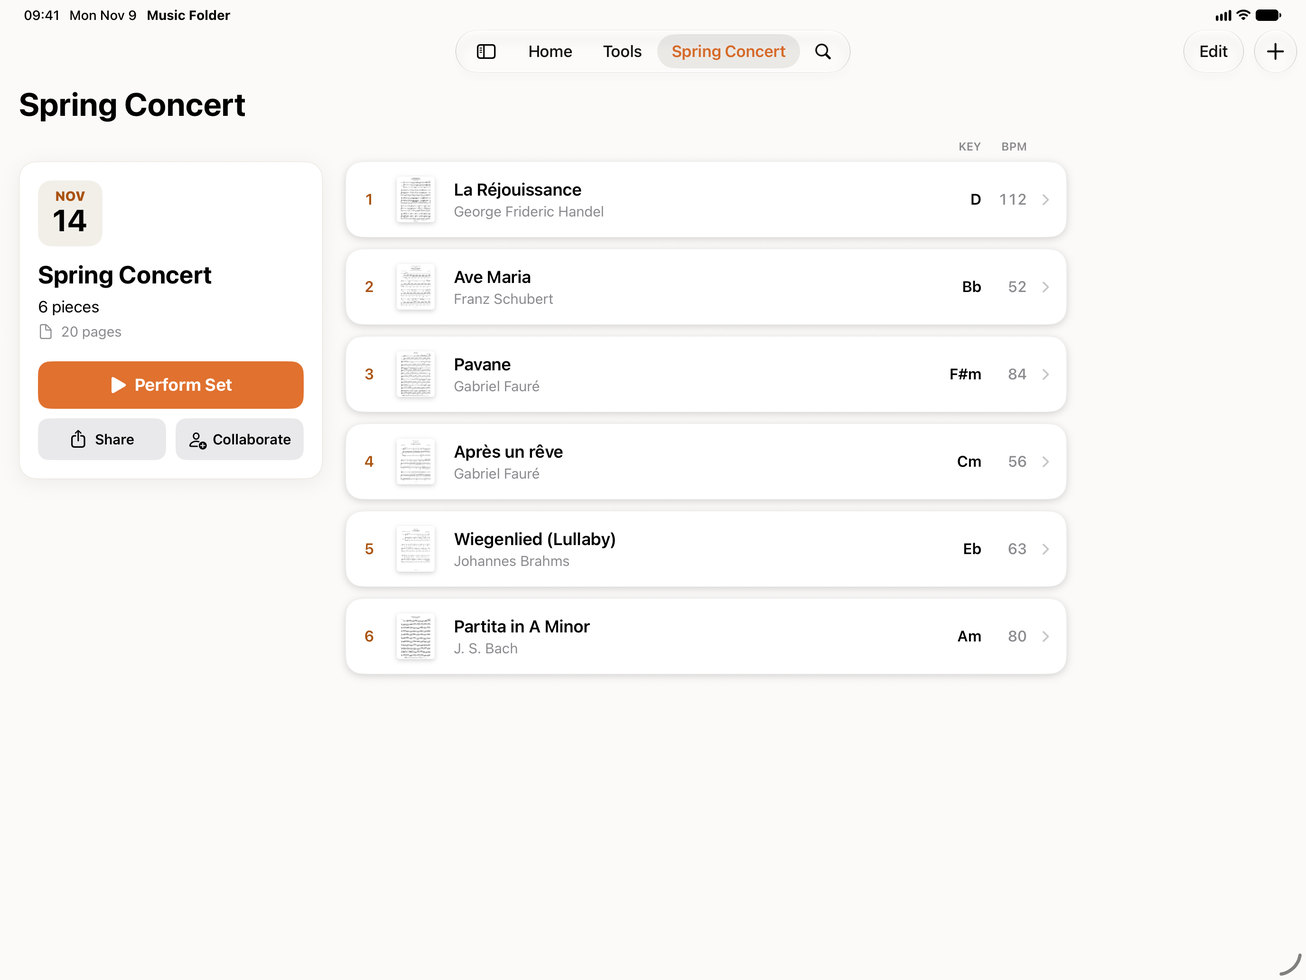
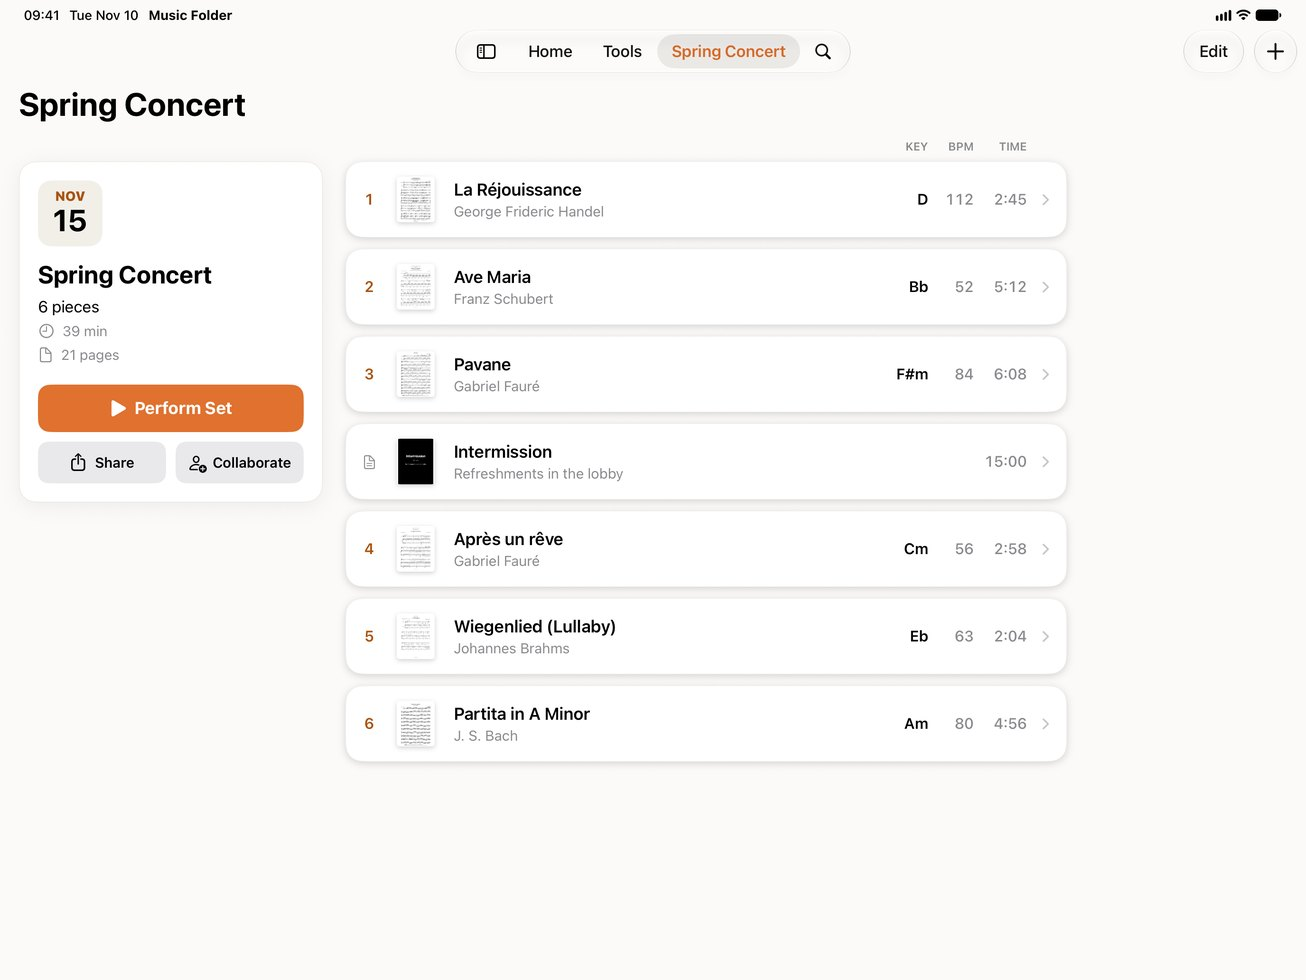
Spring Concert: piece lengths and a black 15-minute Intermission page
Recaptured on MF iPad Pro 13 27.2 from the same seed, now with each piece's
length (TIME column, 39 min set total) and a black Intermission set-list page
with a 15:00 timer after Pavane. Window resize handle removed. Alt text follows
the new screen; cache-busted (v4) on Home and Orchestras & Choirs.

diff --git a/index.html b/index.html
@@ -246,7 +246,7 @@
         <article class="step" data-step="1">
           <h3>Your set, in order.</h3>
           <p>Build a set for every gig or service, then play straight through it, turning pages with a Bluetooth pedal.</p>
-          <div class="step-visual"><div class="device tablet landscape"><div class="screen shot"><img src="assets/setlist-concert-ipad.jpg?v=3" alt="A set list called Spring Concert in Music Folder on iPad: six pieces in performance order, each with composer, key and tempo, beside Perform Set, Share and Collaborate" width="1306" height="980" loading="lazy"></div></div></div>
+          <div class="step-visual"><div class="device tablet landscape"><div class="screen shot"><img src="assets/setlist-concert-ipad.jpg?v=4" alt="A set list called Spring Concert in Music Folder on iPad: six pieces in performance order, each with composer, key, tempo and length, a black Intermission page with a 15-minute timer after the third piece, and the set’s total time beside Perform Set, Share and Collaborate" width="1306" height="980" loading="lazy"></div></div></div>
         </article>
         <article class="step" data-step="2">
           <h3>Mark it up like paper.</h3>
@@ -268,7 +268,7 @@
       <div class="story-stage" aria-hidden="true">
         <div class="stage-inner">
           <div class="frame is-active" data-step="0"><div class="device phone"><div class="screen shot"><img src="assets/library-screen.jpg?v=3" alt="" width="700" height="1522" loading="lazy"></div></div></div>
-          <div class="frame" data-step="1"><div class="device tablet landscape"><div class="screen shot"><img src="assets/setlist-concert-ipad.jpg?v=3" alt="" width="1306" height="980" loading="lazy"></div></div></div>
+          <div class="frame" data-step="1"><div class="device tablet landscape"><div class="screen shot"><img src="assets/setlist-concert-ipad.jpg?v=4" alt="" width="1306" height="980" loading="lazy"></div></div></div>
           <div class="frame" data-step="2"><div class="device tablet s13"><div class="screen shot"><img src="assets/annotate-ipad.jpg?v=3" alt="" width="900" height="1200" loading="lazy"></div><svg class="pencil" viewBox="0 0 380 22" aria-hidden="true" focusable="false"><defs><linearGradient id="pcBody" x1="0" y1="0" x2="0" y2="1"><stop offset="0" stop-color="#FFFFFF"/><stop offset=".38" stop-color="#F7F7F5"/><stop offset=".8" stop-color="#DEDEDA"/><stop offset="1" stop-color="#C9C9C5"/></linearGradient><linearGradient id="pcTip" x1="0" y1="0" x2="0" y2="1"><stop offset="0" stop-color="#FAFAF8"/><stop offset="1" stop-color="#CFCFCB"/></linearGradient></defs><path d="M34 1H369a10 10 0 0 1 0 20H34Z" fill="url(#pcBody)"/><path d="M34 4.2H369" stroke="#fff" stroke-width="1.6" opacity=".9"/><path d="M34 15.6H372" stroke="#000" stroke-opacity=".05" stroke-width="1"/><path d="M34 1L7 9.2v3.6L34 21Z" fill="url(#pcTip)"/><path d="M8.2 8.8L1 10.4a.7.7 0 0 0 0 1.2L8.2 13.2Z" fill="#8E8E8A"/><path d="M34 1v20" stroke="#000" stroke-opacity=".06"/></svg></div></div>
           <div class="frame" data-step="3"><div class="device phone"><div class="screen shot"><img src="assets/planning-center-iphone.jpg?v=2" alt="" width="700" height="1522" loading="lazy"></div></div></div>
           <div class="frame" data-step="4"><div class="device tablet fit"><div class="screen shot"><img src="/assets/collab-ipad.jpg?v=2" alt="" width="900" height="1306" loading="lazy"></div></div></div>

diff --git a/for/orchestras-choirs.html b/for/orchestras-choirs.html
@@ -219,7 +219,7 @@
   <div class="wrap rows">
     <div class="row-feature">
       <div class="rf-text"><h2 class="heading-sm">The concert program, <em>shared.</em></h2><p>Build the program once as a set list and share it. Change the order or add an encore, and every musician's copy updates before the downbeat.</p><ul class="rf-points"><li><svg viewBox="0 0 16 16" fill="none" stroke="currentColor" stroke-width="1.9" stroke-linecap="round" stroke-linejoin="round" aria-hidden="true"><path d="M3 8.5l3 3 7-7"/></svg><span>Whole pieces or single movements, in performance order</span></li><li><svg viewBox="0 0 16 16" fill="none" stroke="currentColor" stroke-width="1.9" stroke-linecap="round" stroke-linejoin="round" aria-hidden="true"><path d="M3 8.5l3 3 7-7"/></svg><span>Section leaders can edit, players view only</span></li><li><svg viewBox="0 0 16 16" fill="none" stroke="currentColor" stroke-width="1.9" stroke-linecap="round" stroke-linejoin="round" aria-hidden="true"><path d="M3 8.5l3 3 7-7"/></svg><span>Turn pages with a Bluetooth pedal, straight through the program</span></li></ul></div>
-      <div class="rf-visual"><div class="device tablet landscape fit"><div class="screen shot"><img src="/assets/setlist-concert-ipad.jpg?v=3" alt="A set list called Spring Concert in Music Folder on iPad: six pieces in performance order, each with composer, key and tempo, beside Perform Set, Share and Collaborate" width="1306" height="980" loading="lazy"></div></div></div>
+      <div class="rf-visual"><div class="device tablet landscape fit"><div class="screen shot"><img src="/assets/setlist-concert-ipad.jpg?v=4" alt="A set list called Spring Concert in Music Folder on iPad: six pieces in performance order, each with composer, key, tempo and length, a black Intermission page with a 15-minute timer after the third piece, and the set’s total time beside Perform Set, Share and Collaborate" width="1306" height="980" loading="lazy"></div></div></div>
     </div><div class="row-feature flip">
       <div class="rf-text"><h2 class="heading-sm">A library organized <em>your way.</em></h2><p>Keep your music in folders by ensemble, season or genre. Share a folder and the whole choir has the season's repertoire, with every new piece added for everyone.</p><ul class="rf-points"><li><svg viewBox="0 0 16 16" fill="none" stroke="currentColor" stroke-width="1.9" stroke-linecap="round" stroke-linejoin="round" aria-hidden="true"><path d="M3 8.5l3 3 7-7"/></svg><span>Folders by ensemble, season or genre</span></li><li><svg viewBox="0 0 16 16" fill="none" stroke="currentColor" stroke-width="1.9" stroke-linecap="round" stroke-linejoin="round" aria-hidden="true"><path d="M3 8.5l3 3 7-7"/></svg><span>Share a folder, or send a one-time copy</span></li><li><svg viewBox="0 0 16 16" fill="none" stroke="currentColor" stroke-width="1.9" stroke-linecap="round" stroke-linejoin="round" aria-hidden="true"><path d="M3 8.5l3 3 7-7"/></svg><span>Tags and search to find any piece</span></li></ul></div>
       <div class="rf-visual"><div class="device phone fit"><div class="screen shot"><img src="/assets/folders-iphone.jpg?v=3" alt="The Folders screen in Music Folder on iPhone: four folders, Chamber Orchestra, Concert Choir, Spring Concert and Wind Ensemble, each with its piece count" width="700" height="1522" loading="lazy"></div></div></div>
